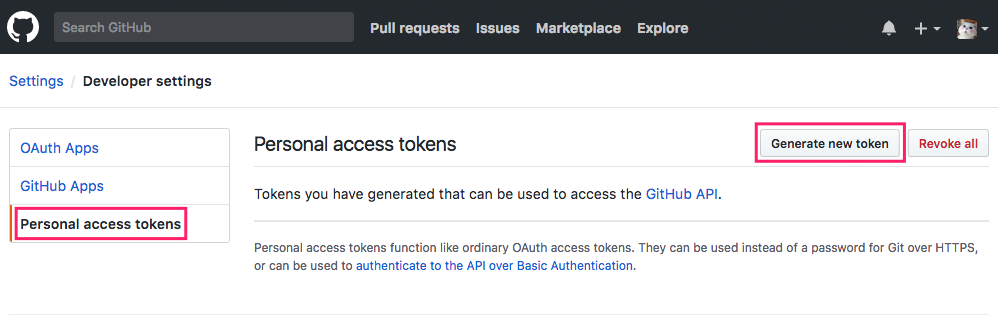
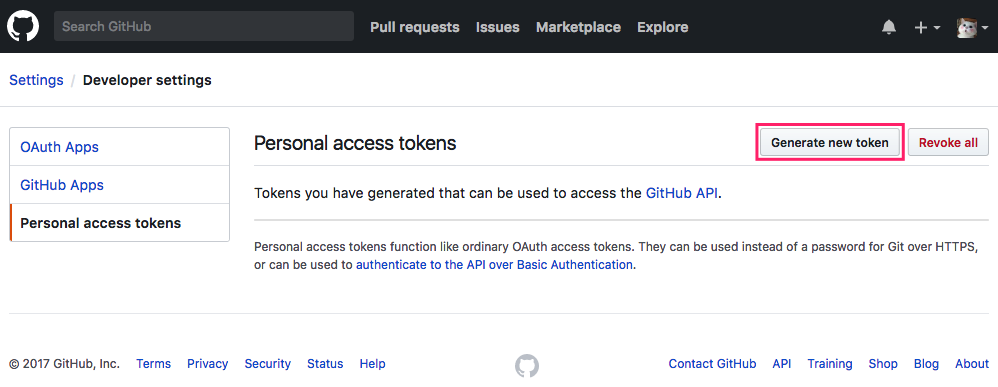
simplifed user guide

diff --git a/README.md b/README.md
@@ -96,17 +96,9 @@ Moreover, if you don't set `"http_proxy"`, `Syncing` will try to use the `http_p
 
 ## Getting Started
 
-1. Get your own `GitHub Personal Access Token`.
+1. Get your own `GitHub Personal Access Token` (3 steps).
 
-    1. **Login to your `GitHub Settings` page.**
-
-        ![login to settings page](docs/png/Settings.png)
-
-    1. **Select `Developer settings`.**
-
-        ![generate new token](docs/png/Public-Profile.png)
-
-    1. **Select `Personal access tokens` and click `Generate new token`.**
+    1. **Login to your [GitHub Personal Access Tokens page](https://github.com/settings/tokens) and click `Generate new token`.**
 
         ![generate new token](docs/png/Generate-New-Token.png)
 
@@ -122,7 +114,7 @@ Moreover, if you don't set `"http_proxy"`, `Syncing` will try to use the `http_p
 
     *`Syncing`* will ask for necessary information `for the first time` and `save for later use`.
 
-    1. **Upload VSCode Settings**
+    1. **Upload**
 
         1. Type `upload` in `VSCode Command Palette`.
 
@@ -138,7 +130,7 @@ Moreover, if you don't set `"http_proxy"`, `Syncing` will try to use the `http_p
 
         1. *After it's done, you can find the settings and the corresponding `Gist ID` in your [GitHub Gist](https://gist.github.com).*
 
-    1. **Download VSCode Settings**
+    1. **Download**
 
         1. Type `download` in `VSCode Command Palette`.
 
@@ -155,10 +147,10 @@ Moreover, if you don't set `"http_proxy"`, `Syncing` will try to use the `http_p
 
 ## Examples
 
-1. Upload Settings:
+1. Upload:
 
     ![upload example](docs/gif/Example-Upload.gif)
 
-1. Download Settings:
+1. Download:
 
     ![download example](docs/gif/Example-Download.gif)

diff --git a/CHANGELOG.md b/CHANGELOG.md
@@ -2,9 +2,9 @@
 
 ## 1.5.1 - December 4, 2017
 
-- Added: `Notable Changes` in README.md.
-- Changed: User guides.
-- Changed: Reduce file size.
+- Added: Added `Notable Changes` section in README.md.
+- Changed: Simplified user guide.
+- Changed: Reduced extension file size.
 
 
 ## 1.5.0 - December 2, 2017
